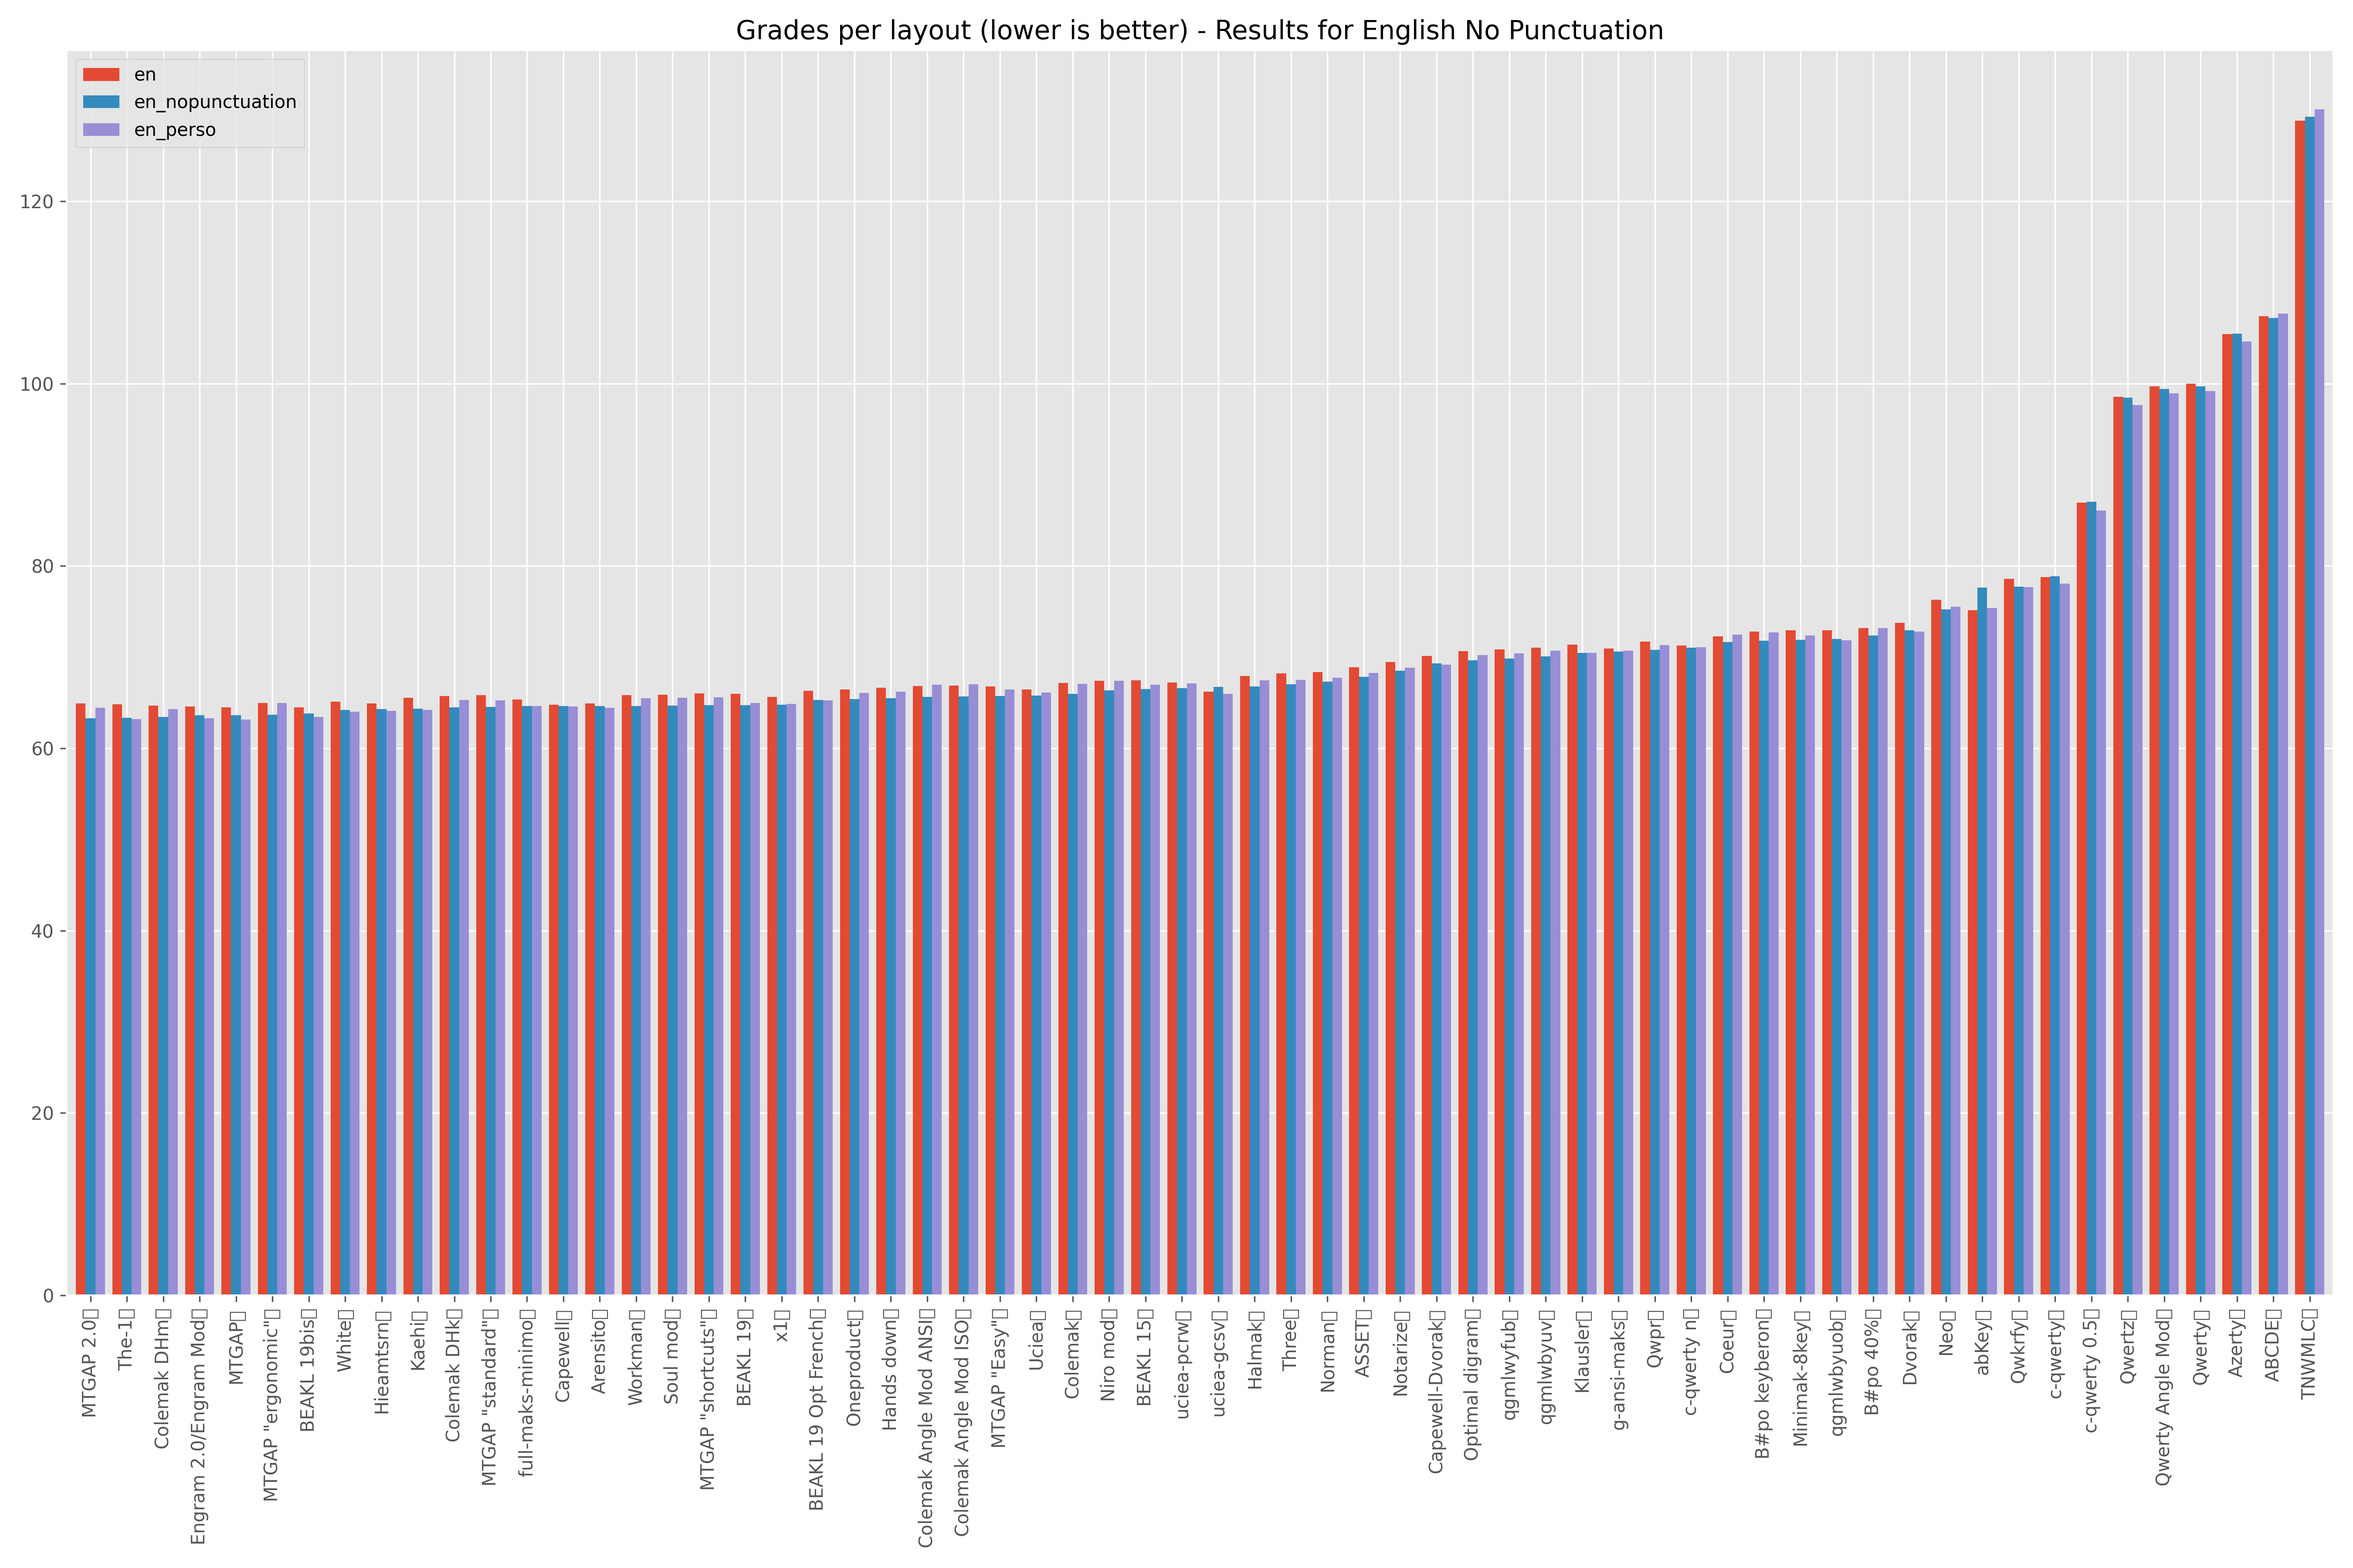
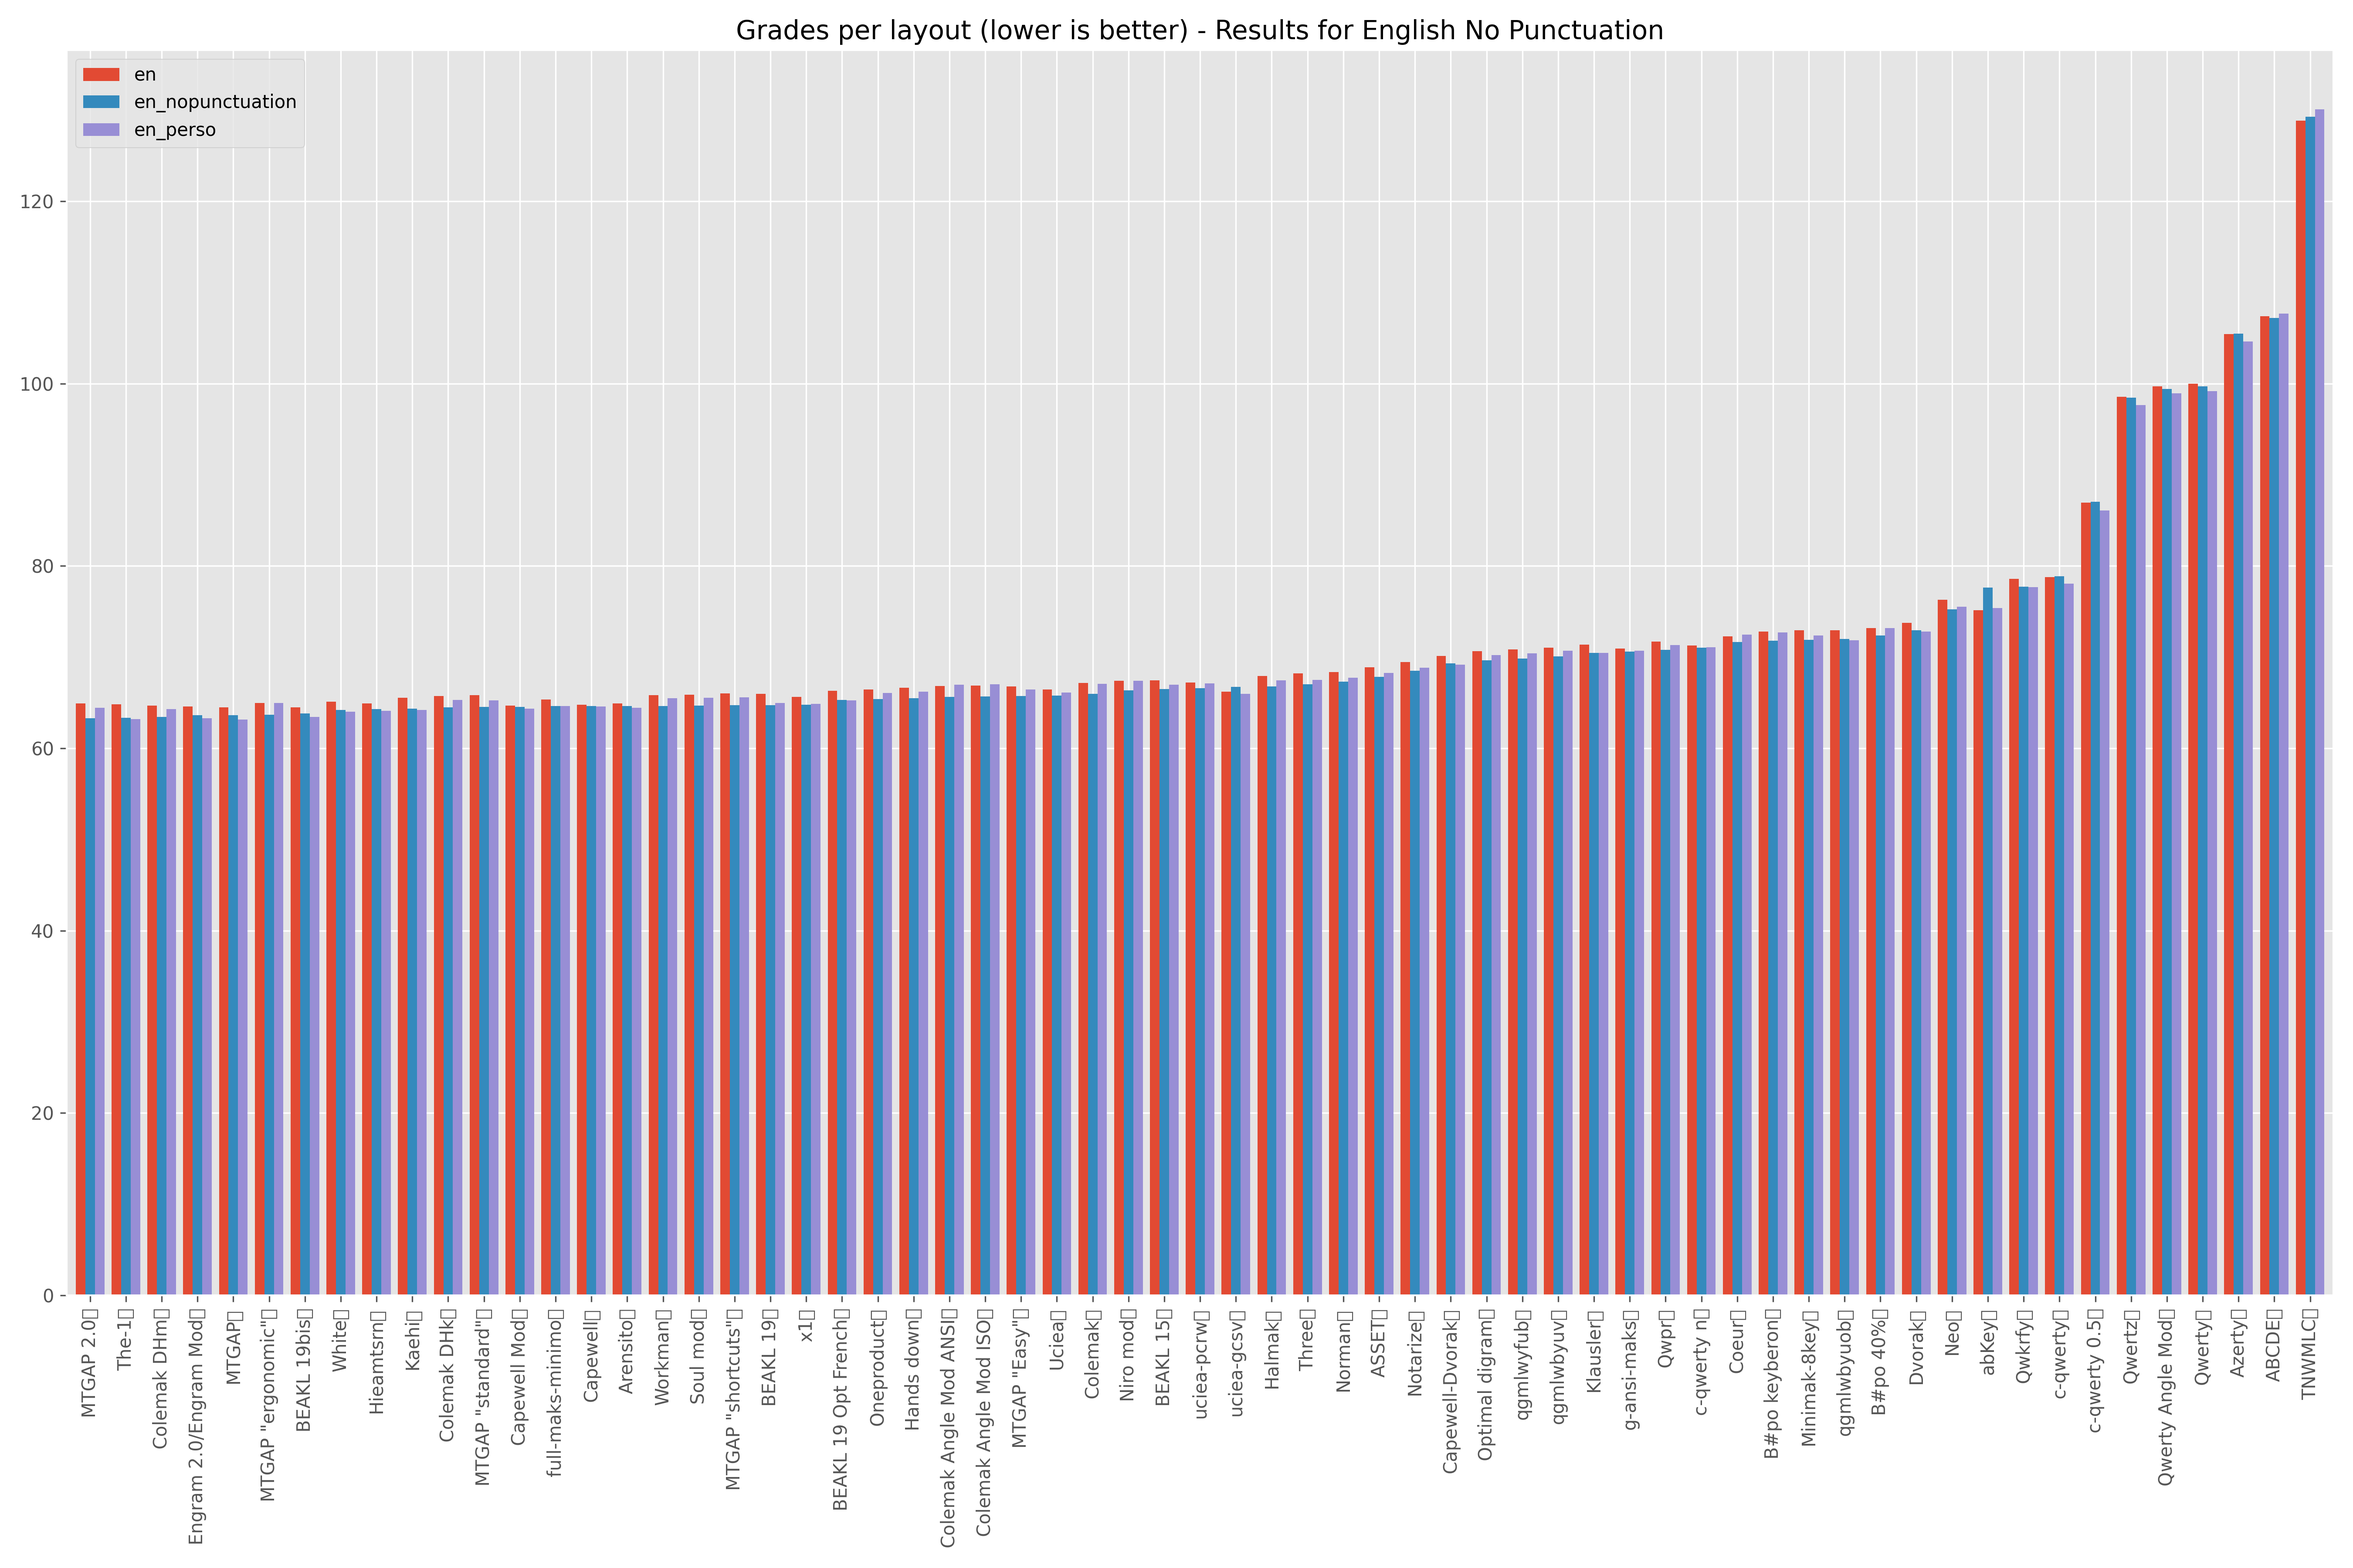
add capewell mod

diff --git a/README.md b/README.md
@@ -232,6 +232,7 @@ Here is the complete results list. The layouts can be seen in `config.txt`.
 | BEAKL 19bis | 64.51 | 63.46 | 63.81 | 63.926667 | 65.42 | 64.62 | 64.45 | 67.92 | 69.00 | 66.063333 |
 | Engram 2.0/Engram Mod | 64.58 | 63.31 | 63.61 | 63.833333 | 67.95 | 67.72 | 66.52 | 69.11 | 69.47 | 67.353667 |
 | Colemak DHm | 64.66 | 64.30 | 63.44 | 64.133333 | 64.82 | 64.81 | 64.18 | 64.70 | 68.16 | 65.197667 |
+| Capewell Mod | 64.68 | 64.35 | 64.54 | 64.523333 | 63.06 | 62.17 | 65.80 | 66.87 | 67.62 | 65.485667 |
 | Capewell | 64.77 | 64.58 | 64.62 | 64.656667 | 62.99 | 62.08 | 65.85 | 66.88 | 67.77 | 65.538333 |
 | The-1 | 64.80 | 63.19 | 63.32 | 63.770000 | 69.74 | 69.45 | 68.97 | 67.54 | 70.26 | 68.027000 |
 | Hieamtsrn | 64.90 | 64.09 | 64.31 | 64.433333 | 67.07 | 66.37 | 65.86 | 67.24 | 68.30 | 66.510667 |
